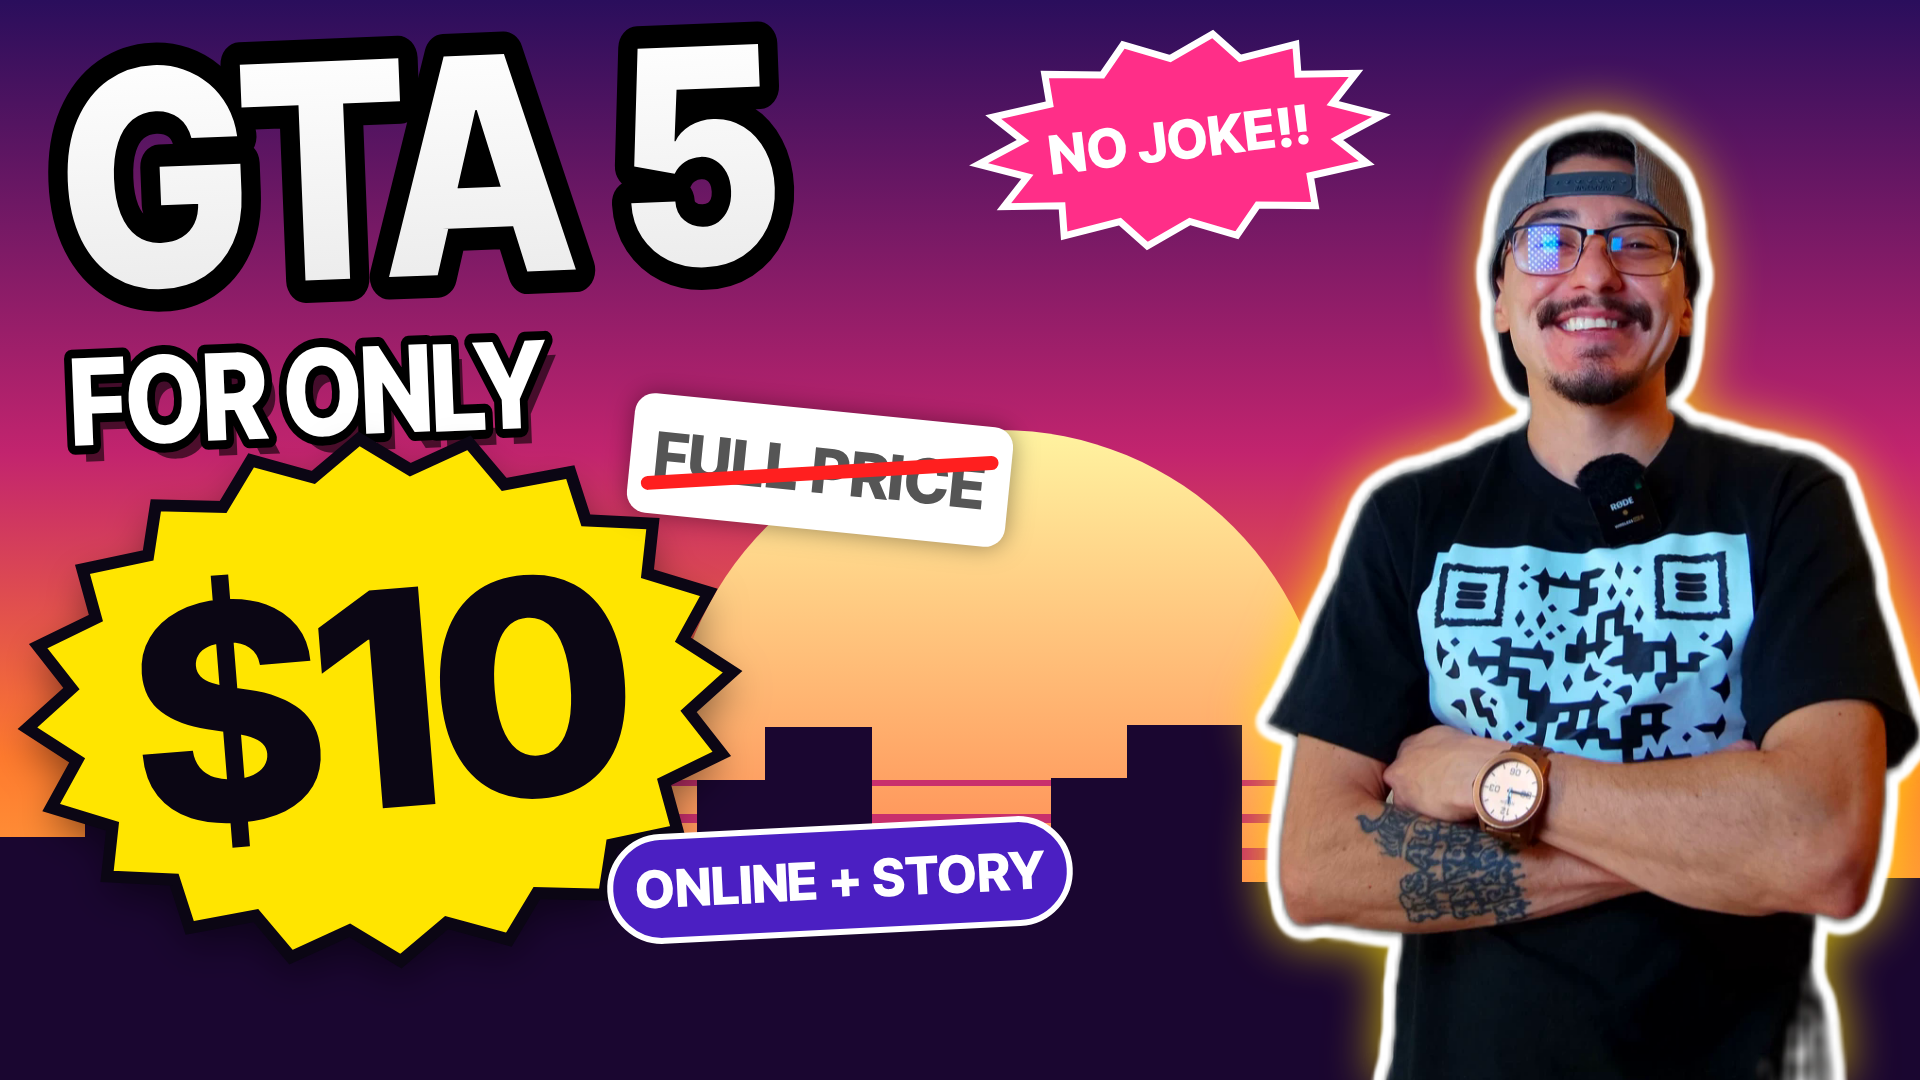
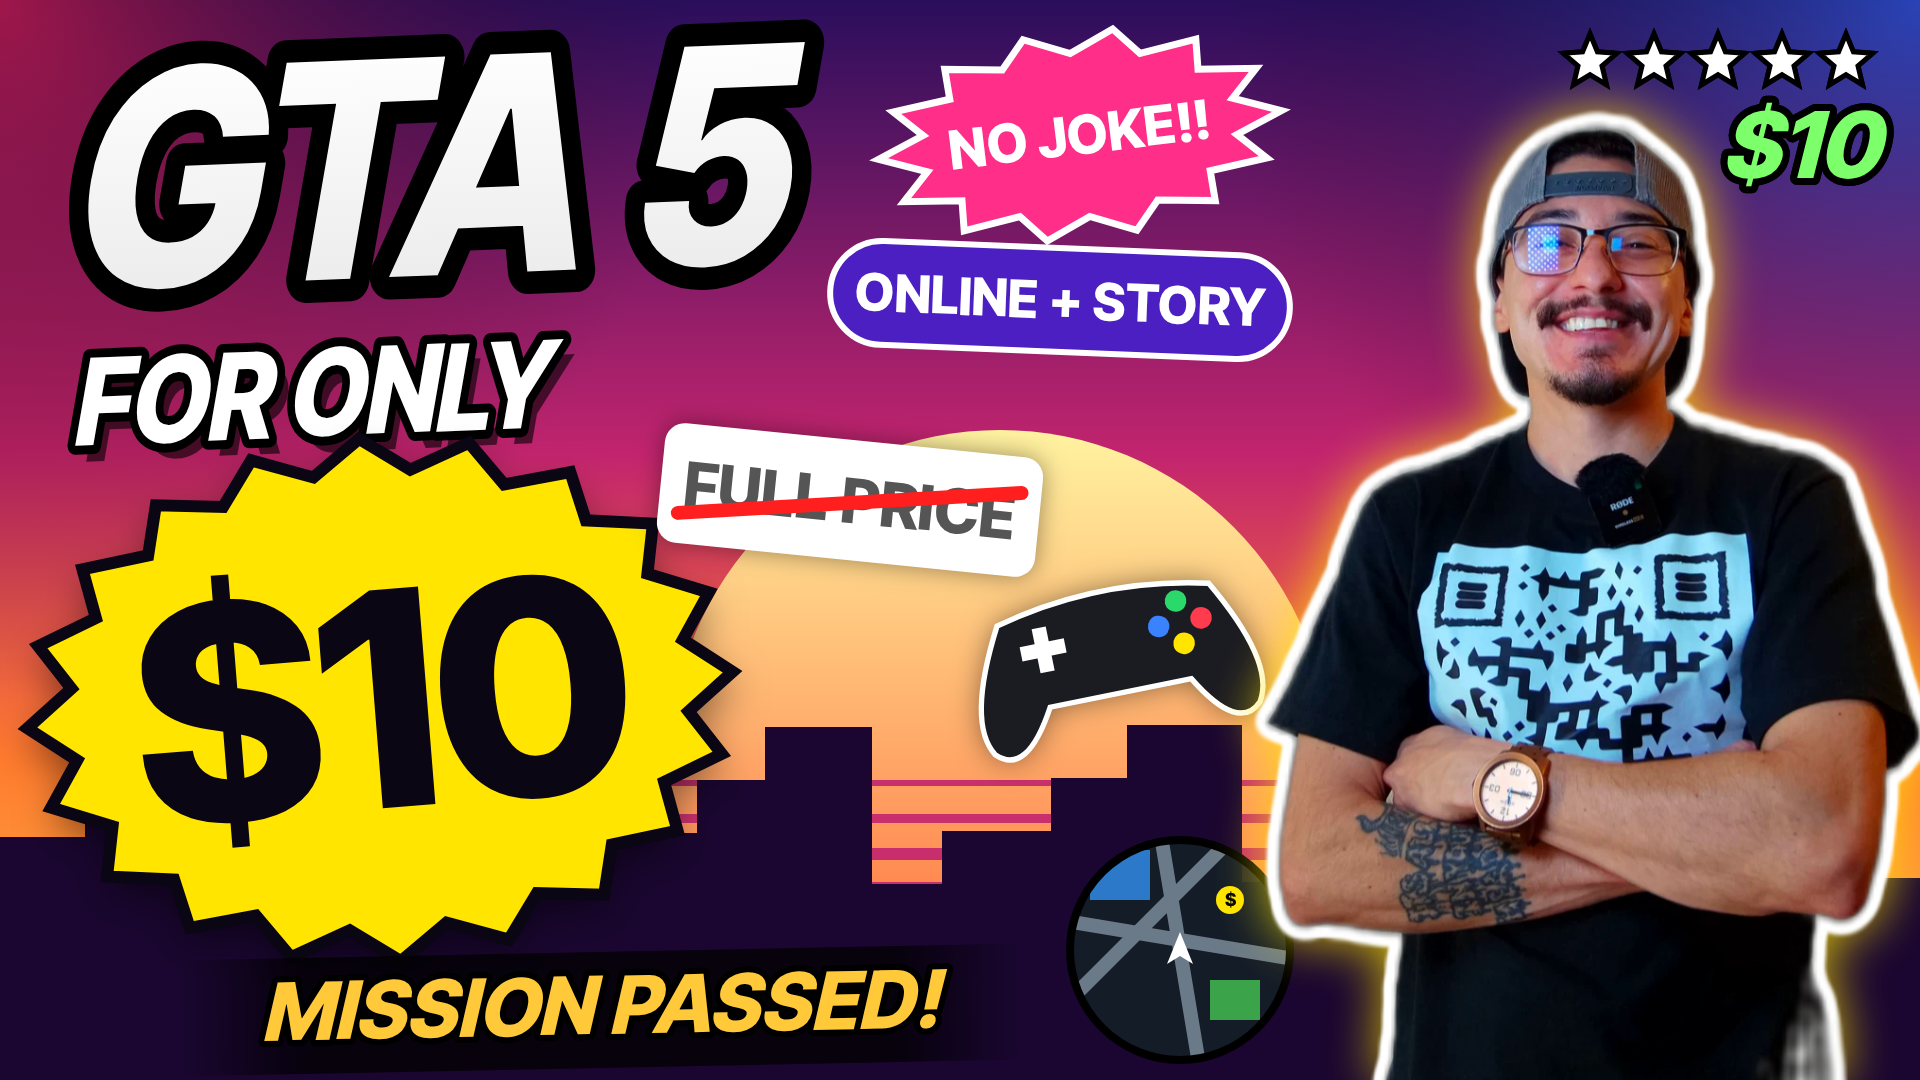
GTA thumbnail: gamier — wanted stars, HUD money, minimap, Mission Passed, controller, police lights
Claude-Session: https://claude.ai/code/session_01NSJvdmHsHoazKiuuGVQfMY

diff --git a/story/gta_thumb.html b/story/gta_thumb.html
@@ -14,7 +14,7 @@
   const me = new Image(); me.src = 'kal_cutout.png'; await me.decode();
   const rr = (x, y, w, h, r) => { c.beginPath(); c.roundRect(x, y, w, h, r); };
   function word(s, x, y, size, fill, sx = 0.84, rot = 0, align = 'left', stroke = '#000') {
-    c.save(); c.translate(x, y); c.rotate(rot); c.scale(sx, 1); c.font = D(size); c.textAlign = align; c.textBaseline = 'middle'; c.letterSpacing = '-2px'; c.lineJoin = 'round';
+    c.save(); c.translate(x, y); c.rotate(rot); c.scale(sx, 1); c.font = 'italic ' + D(size); c.textAlign = align; c.textBaseline = 'middle'; c.letterSpacing = '-2px'; c.lineJoin = 'round';
     c.fillStyle = 'rgba(0,0,0,0.6)'; c.fillText(s, 12, 16); c.lineWidth = size * 0.15; c.strokeStyle = stroke; c.strokeText(s, 0, 0);
     if (Array.isArray(fill)) { const g = c.createLinearGradient(0, -size / 2, 0, size / 2); fill.forEach((f, i) => g.addColorStop(i / (fill.length - 1), f)); c.fillStyle = g; } else c.fillStyle = fill; c.fillText(s, 0, 0); c.restore();
   }
@@ -30,6 +30,8 @@
     c.beginPath(); c.moveTo(0, 0); c.quadraticCurveTo(40, -260, 10, -520); c.stroke();
     for (const [a, l] of [[-2.6, 230], [-2.1, 260], [-1.5, 200], [-0.9, 260], [-0.4, 230], [-3.0, 180], [0.0, 170]]) { c.beginPath(); c.moveTo(10, -520); c.quadraticCurveTo(10 + Math.cos(a) * l * 0.6, -520 + Math.sin(a) * l * 0.6 - 60, 10 + Math.cos(a) * l, -520 + Math.sin(a) * l + 40); c.lineWidth = 26; c.stroke(); }
     c.restore(); }
+  // police lights bleeding in from the edges
+  for (const [x, col] of [[0, 'rgba(255,30,60,0.55)'], [W, 'rgba(40,110,255,0.55)']]) { const pg = c.createRadialGradient(x, 0, 0, x, 0, 700); pg.addColorStop(0, col); pg.addColorStop(1, 'rgba(0,0,0,0)'); c.fillStyle = pg; c.fillRect(0, 0, W, H); }
   // ---- headline
   word('GTA 5', 60, 200, 300, ['#FFFFFF', '#E8E8E8'], 0.86, -0.04);
   word('FOR ONLY', 70, 410, 120, '#FFFFFF', 0.86, -0.04);
@@ -38,11 +40,33 @@
   c.beginPath(); for (let i = 0; i < 40; i++) { const a = i / 40 * TAU, r = i % 2 ? 230 : 262; c.lineTo(Math.cos(a) * r * 1.35, Math.sin(a) * r); } c.closePath(); c.fillStyle = YEL; c.fill(); c.shadowColor = 'transparent'; c.lineWidth = 12; c.strokeStyle = INK; c.stroke();
   c.font = D(300); c.textAlign = 'center'; c.textBaseline = 'middle'; c.letterSpacing = '-8px'; c.fillStyle = INK; c.fillText('$10', 0, 18); c.restore();
   // slashed FULL PRICE tag
-  c.save(); c.translate(820, 470); c.rotate(0.1); rr(-190, -60, 380, 120, 20); c.fillStyle = '#fff'; c.shadowColor = 'rgba(0,0,0,0.4)'; c.shadowBlur = 24; c.fill(); c.shadowColor = 'transparent';
+  c.save(); c.translate(850, 500); c.rotate(0.1); rr(-190, -60, 380, 120, 20); c.fillStyle = '#fff'; c.shadowColor = 'rgba(0,0,0,0.4)'; c.shadowBlur = 24; c.fill(); c.shadowColor = 'transparent';
   c.font = D(62); c.fillStyle = '#555'; c.textAlign = 'center'; c.textBaseline = 'middle'; c.fillText('FULL PRICE', 0, 4); c.strokeStyle = '#FF1F1F'; c.lineWidth = 14; c.lineCap = 'round'; c.beginPath(); c.moveTo(-170, 30); c.lineTo(170, -24); c.stroke(); c.restore();
   // ONLINE + STORY chip
-  c.save(); c.translate(840, 880); c.rotate(-0.05); rr(-230, -52, 460, 104, 52); c.fillStyle = PUR; c.fill(); c.lineWidth = 6; c.strokeStyle = '#fff'; c.stroke();
+  c.save(); c.translate(1060, 300); c.rotate(0.04); rr(-230, -52, 460, 104, 52); c.fillStyle = PUR; c.fill(); c.lineWidth = 6; c.strokeStyle = '#fff'; c.stroke();
   c.font = D(52); c.fillStyle = '#fff'; c.textAlign = 'center'; c.textBaseline = 'middle'; c.fillText('ONLINE + STORY', 0, 3); c.restore();
+
+  // ===== GAME HUD LAYER =====
+  // wanted stars + money counter, top right (GTA-style HUD)
+  const star = (x, y, r, on) => { c.save(); c.translate(x, y); c.beginPath(); for (let i = 0; i < 10; i++) { const a = -Math.PI / 2 + i * Math.PI / 5, q = i % 2 ? r * 0.45 : r; c.lineTo(Math.cos(a) * q, Math.sin(a) * q); } c.closePath(); c.fillStyle = on ? '#FFFFFF' : 'rgba(0,0,0,0.45)'; c.fill(); c.lineWidth = 5; c.strokeStyle = '#000'; c.stroke(); c.restore(); };
+  for (let i = 0; i < 5; i++) star(W - 330 + i * 64, 62, 28, i >= 0);
+  c.save(); c.font = 'italic 900 92px "Inter Tight"'; c.textAlign = 'right'; c.textBaseline = 'middle'; c.lineJoin = 'round'; c.lineWidth = 14; c.strokeStyle = '#000'; c.strokeText('$10', W - 40, 150); c.fillStyle = '#7CFF6B'; c.fillText('$10', W - 40, 150); c.restore();
+  // minimap, bottom left corner over the skyline
+  c.save(); c.translate(1180, 950); c.beginPath(); c.arc(0, 0, 110, 0, TAU); c.fillStyle = 'rgba(20,30,40,0.92)'; c.fill(); c.clip();
+  c.strokeStyle = '#6B7A88'; c.lineWidth = 14; c.beginPath(); c.moveTo(-120, -30); c.lineTo(120, 10); c.moveTo(-20, -120); c.lineTo(20, 120); c.moveTo(-120, 60); c.lineTo(60, -120); c.stroke();
+  c.fillStyle = '#3BA34A'; c.fillRect(30, 30, 50, 40); c.fillStyle = '#2C78C9'; c.fillRect(-90, -100, 60, 50);
+  c.fillStyle = YEL; c.beginPath(); c.arc(50, -50, 14, 0, TAU); c.fill(); c.font = D(18); c.fillStyle = '#000'; c.textAlign = 'center'; c.textBaseline = 'middle'; c.fillText('$', 50, -49);
+  c.fillStyle = '#fff'; c.beginPath(); c.moveTo(0, -18); c.lineTo(13, 14); c.lineTo(0, 6); c.lineTo(-13, 14); c.closePath(); c.fill(); c.restore();
+  c.beginPath(); c.arc(1180, 950, 110, 0, TAU); c.lineWidth = 8; c.strokeStyle = '#000'; c.stroke();
+  // MISSION PASSED banner
+  c.save(); c.translate(600, 1010); c.rotate(-0.02); const bg2 = c.createLinearGradient(-420, 0, 420, 0); bg2.addColorStop(0, 'rgba(0,0,0,0)'); bg2.addColorStop(0.15, 'rgba(0,0,0,0.75)'); bg2.addColorStop(0.85, 'rgba(0,0,0,0.75)'); bg2.addColorStop(1, 'rgba(0,0,0,0)'); c.fillStyle = bg2; c.fillRect(-460, -58, 920, 116);
+  c.font = 'italic 900 80px "Inter Tight"'; c.textAlign = 'center'; c.textBaseline = 'middle'; c.lineJoin = 'round'; c.lineWidth = 12; c.strokeStyle = '#000'; c.strokeText('MISSION PASSED!', 0, 0); c.fillStyle = '#FFC93A'; c.fillText('MISSION PASSED!', 0, 0); c.restore();
+  // controller
+  c.save(); c.translate(1110, 640); c.rotate(-0.2); c.scale(0.9, 0.9); c.shadowColor = 'rgba(0,0,0,0.5)'; c.shadowBlur = 30;
+  c.beginPath(); c.moveTo(-120, -40); c.quadraticCurveTo(0, -70, 120, -40); c.quadraticCurveTo(175, 60, 150, 100); c.quadraticCurveTo(120, 130, 80, 60); c.lineTo(-80, 60); c.quadraticCurveTo(-120, 130, -150, 100); c.quadraticCurveTo(-175, 60, -120, -40); c.closePath(); c.fillStyle = '#1B1B22'; c.fill(); c.shadowColor = 'transparent'; c.lineWidth = 6; c.strokeStyle = '#fff'; c.stroke();
+  c.fillStyle = '#fff'; c.fillRect(-100, -12, 50, 16); c.fillRect(-83, -29, 16, 50);
+  [[80, -28, '#2BD96B'], [104, -4, '#FF3B4E'], [56, -4, '#3B82FF'], [80, 20, '#FFE500']].forEach(([x, y, col]) => { c.beginPath(); c.arc(x, y, 12, 0, TAU); c.fillStyle = col; c.fill(); });
+  c.restore();
   // ---- creator cutout with yellow outline
   const ph = 1030, pw = ph * me.width / me.height, px = W - pw + 20, py = H - ph + 60;
   const off = document.createElement('canvas'); off.width = W; off.height = H; const o = off.getContext('2d');
@@ -50,8 +74,10 @@
   o.globalCompositeOperation = 'source-in'; o.fillStyle = '#fff'; o.fillRect(0, 0, W, H);
   c.save(); c.shadowColor = 'rgba(255,229,0,0.8)'; c.shadowBlur = 50; c.drawImage(off, 0, 0); c.restore(); c.drawImage(me, px, py, pw, ph);
   // "NO JOKE!!" burst by his head
-  c.save(); c.translate(1180, 140); c.rotate(-0.12); c.beginPath(); for (let i = 0; i < 28; i++) { const a = i / 28 * TAU, r = i % 2 ? 82 : 104; c.lineTo(Math.cos(a) * r * 1.95, Math.sin(a) * r); } c.closePath(); c.fillStyle = PINK; c.fill(); c.lineWidth = 7; c.strokeStyle = '#fff'; c.stroke();
+  c.save(); c.translate(1080, 135); c.rotate(-0.12); c.beginPath(); for (let i = 0; i < 28; i++) { const a = i / 28 * TAU, r = i % 2 ? 82 : 104; c.lineTo(Math.cos(a) * r * 1.95, Math.sin(a) * r); } c.closePath(); c.fillStyle = PINK; c.fill(); c.lineWidth = 7; c.strokeStyle = '#fff'; c.stroke();
   c.font = D(54); c.fillStyle = '#fff'; c.textAlign = 'center'; c.textBaseline = 'middle'; c.fillText('NO JOKE!!', 0, 3); c.restore();
+  for (let i = 0; i < 5; i++) star(W - 330 + i * 64, 62, 28, true);
+  c.save(); c.font = 'italic 900 92px "Inter Tight"'; c.textAlign = 'right'; c.textBaseline = 'middle'; c.lineJoin = 'round'; c.lineWidth = 14; c.strokeStyle = '#000'; c.strokeText('$10', W - 40, 150); c.fillStyle = '#7CFF6B'; c.fillText('$10', W - 40, 150); c.restore();
   document.body.dataset.ready = '1';
 })();
 </script></body></html>
